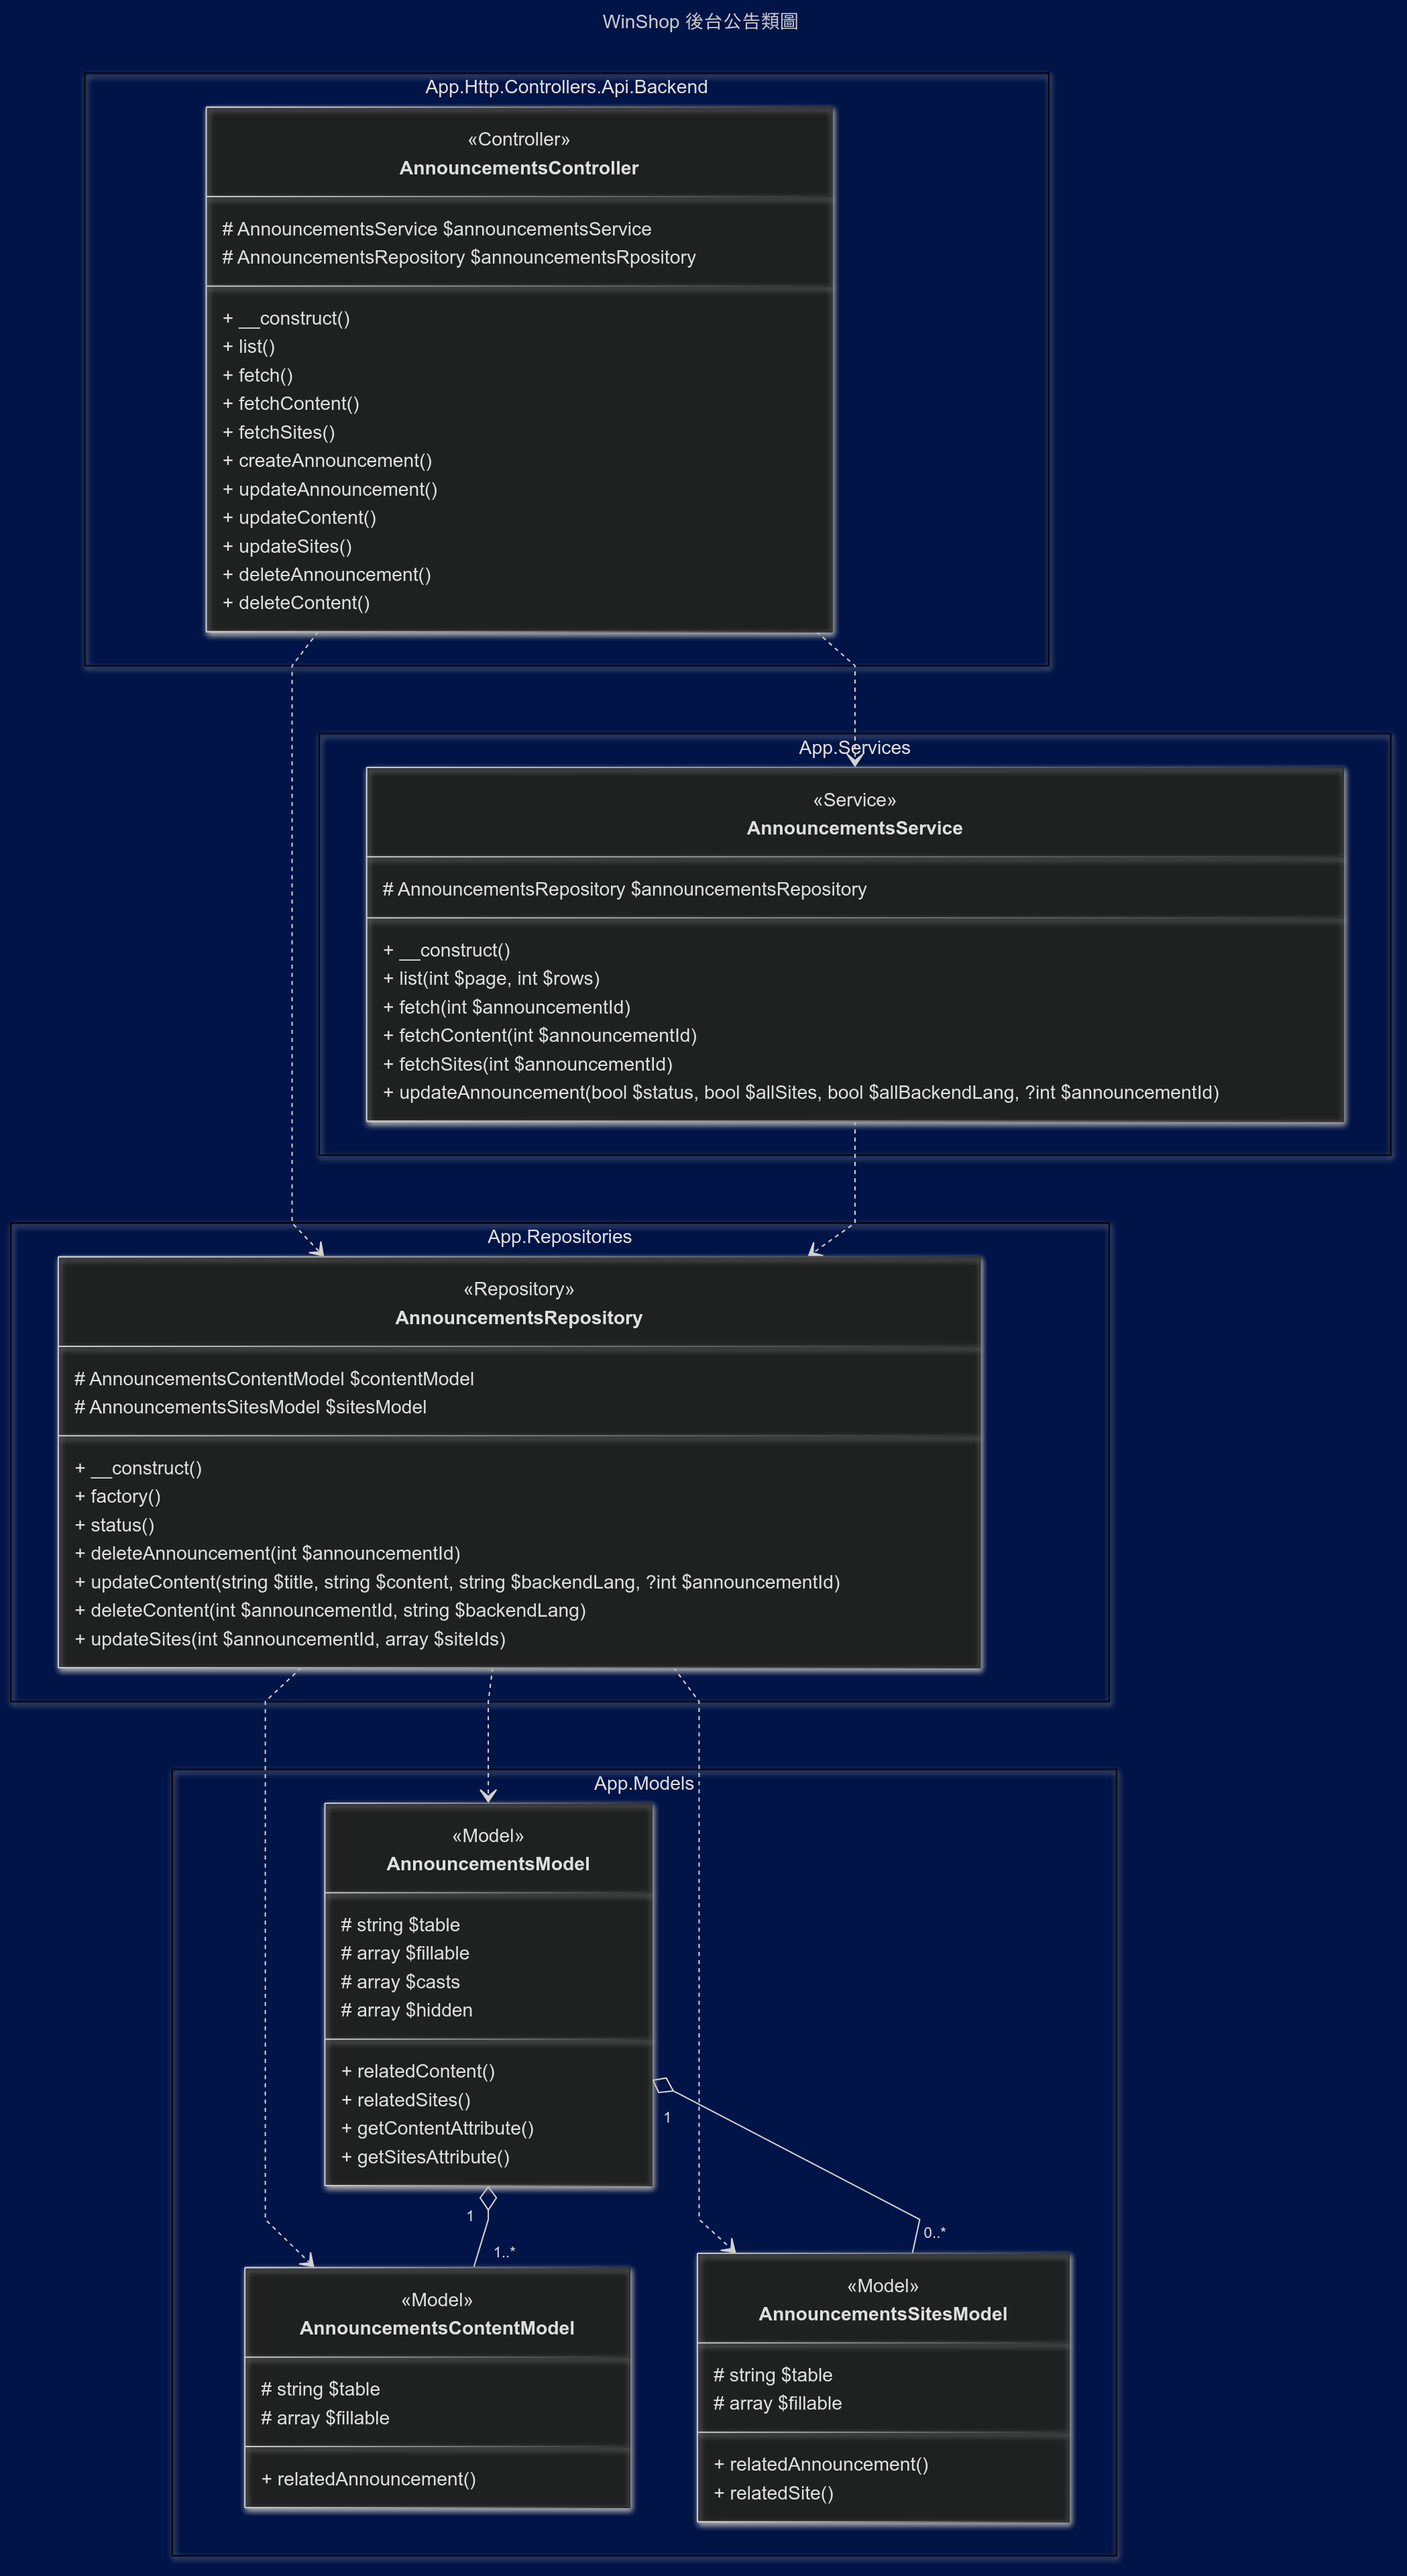
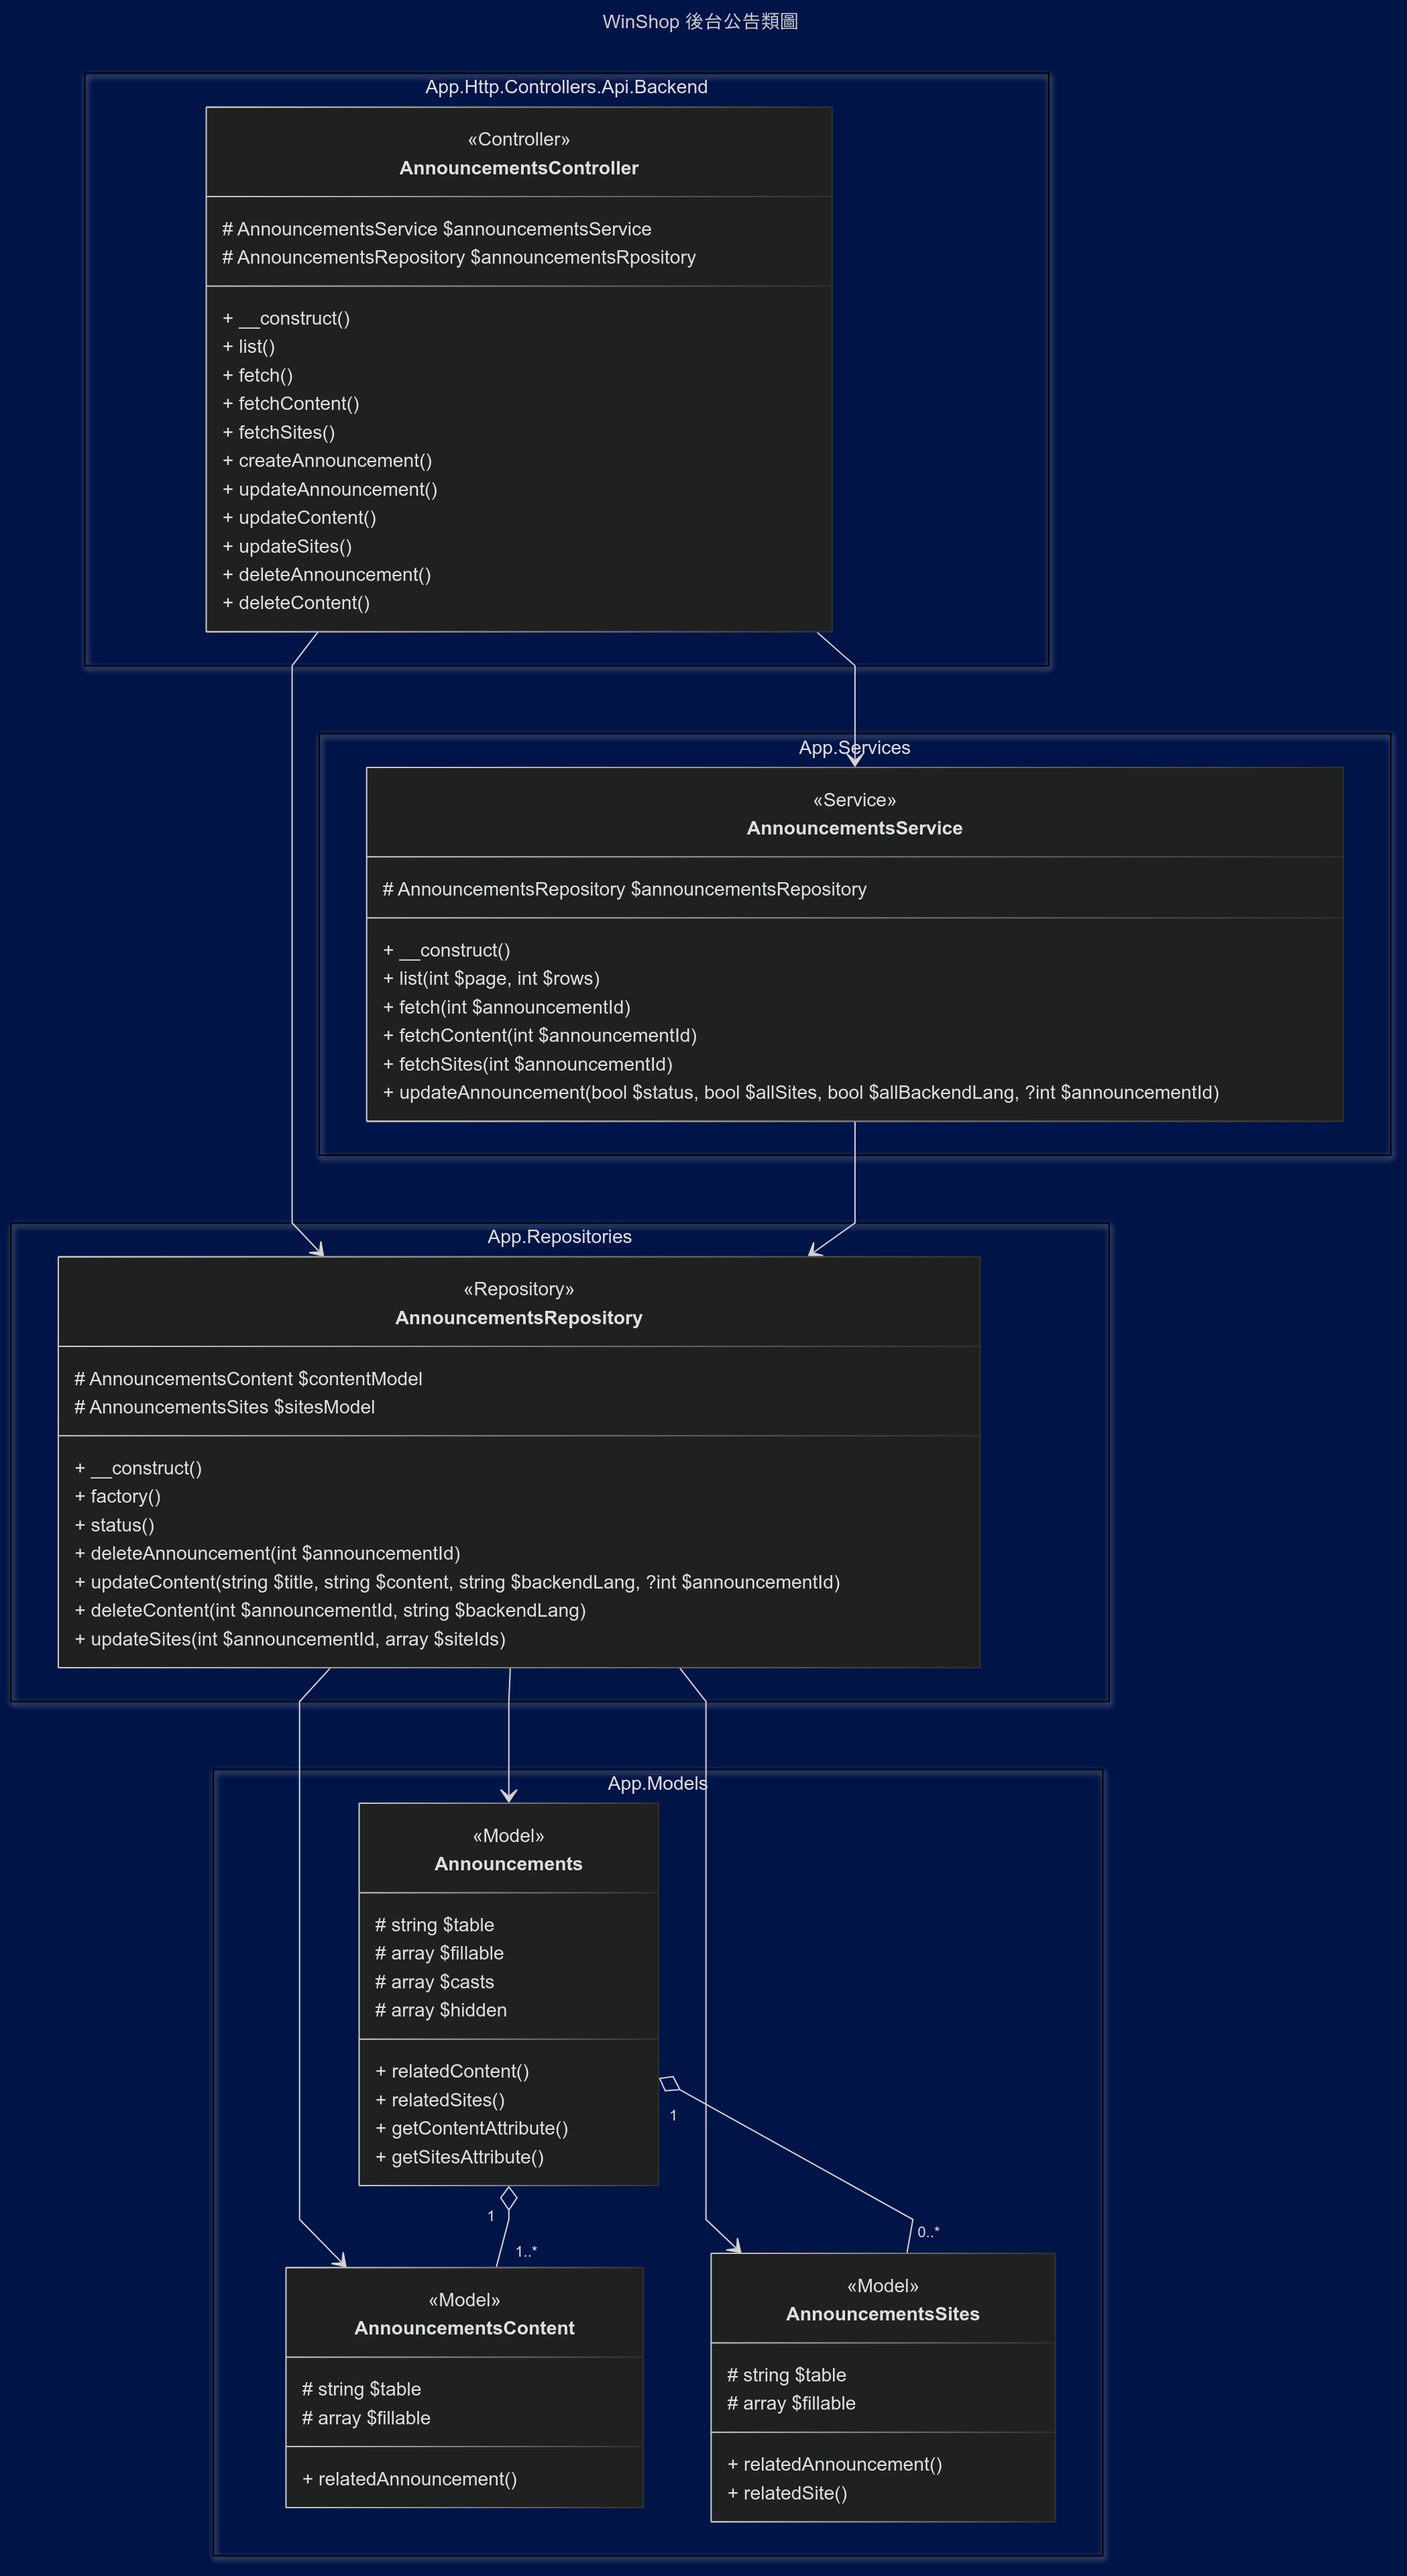
GITBOOK-6: No subject

diff --git a/SUMMARY.md b/SUMMARY.md
@@ -11,20 +11,15 @@
   * [類別參考文件](hou-duan-xiang-xi-wen-jian/lei-bie-can-kao-wen-jian/README.md)
     * [AnnouncementsController](hou-duan-xiang-xi-wen-jian/lei-bie-can-kao-wen-jian/announcementscontroller/README.md)
       * [\_\_construct()](hou-duan-xiang-xi-wen-jian/lei-bie-can-kao-wen-jian/announcementscontroller/__construct.md)
-      * [list()](hou-duan-xiang-xi-wen-jian/lei-bie-can-kao-wen-jian/announcementscontroller/list.md)
       * [fetch()](hou-duan-xiang-xi-wen-jian/lei-bie-can-kao-wen-jian/announcementscontroller/fetch.md)
-      * [fetchContent()](hou-duan-xiang-xi-wen-jian/lei-bie-can-kao-wen-jian/announcementscontroller/fetchcontent.md)
-      * [fetchSites()](hou-duan-xiang-xi-wen-jian/lei-bie-can-kao-wen-jian/announcementscontroller/fetchsites.md)
+      * [list()](hou-duan-xiang-xi-wen-jian/lei-bie-can-kao-wen-jian/announcementscontroller/list.md)
       * [createAnnouncement()](hou-duan-xiang-xi-wen-jian/lei-bie-can-kao-wen-jian/announcementscontroller/createannouncement.md)
       * [updateAnnouncement()](hou-duan-xiang-xi-wen-jian/lei-bie-can-kao-wen-jian/announcementscontroller/updateannouncement.md)
-      * [updateContent()](hou-duan-xiang-xi-wen-jian/lei-bie-can-kao-wen-jian/announcementscontroller/updatecontent.md)
-      * [updateSites()](hou-duan-xiang-xi-wen-jian/lei-bie-can-kao-wen-jian/announcementscontroller/updatesites.md)
       * [deleteAnnouncement()](hou-duan-xiang-xi-wen-jian/lei-bie-can-kao-wen-jian/announcementscontroller/deleteannouncement.md)
-      * [deleteContent()](hou-duan-xiang-xi-wen-jian/lei-bie-can-kao-wen-jian/announcementscontroller/deletecontent.md)
     * [AnnouncementsService](hou-duan-xiang-xi-wen-jian/lei-bie-can-kao-wen-jian/announcementsservice/README.md)
       * [\_\_construct()](hou-duan-xiang-xi-wen-jian/lei-bie-can-kao-wen-jian/announcementsservice/__construct.md)
-      * [list()](hou-duan-xiang-xi-wen-jian/lei-bie-can-kao-wen-jian/announcementsservice/list.md)
       * [fetch()](hou-duan-xiang-xi-wen-jian/lei-bie-can-kao-wen-jian/announcementsservice/fetch.md)
+      * [list()](hou-duan-xiang-xi-wen-jian/lei-bie-can-kao-wen-jian/announcementsservice/list.md)
       * [fetchContent()](hou-duan-xiang-xi-wen-jian/lei-bie-can-kao-wen-jian/announcementsservice/fetchcontent.md)
       * [fetchSites()](hou-duan-xiang-xi-wen-jian/lei-bie-can-kao-wen-jian/announcementsservice/fetchsites.md)
       * [updateAnnouncement()](hou-duan-xiang-xi-wen-jian/lei-bie-can-kao-wen-jian/announcementsservice/updateannouncement.md)
@@ -36,15 +31,15 @@
       * [updateContent()](hou-duan-xiang-xi-wen-jian/lei-bie-can-kao-wen-jian/announcementsrepository/updatecontent.md)
       * [deleteContent()](hou-duan-xiang-xi-wen-jian/lei-bie-can-kao-wen-jian/announcementsrepository/deletecontent.md)
       * [updateSites()](hou-duan-xiang-xi-wen-jian/lei-bie-can-kao-wen-jian/announcementsrepository/updatesites.md)
-    * [AnnouncementsModel](hou-duan-xiang-xi-wen-jian/lei-bie-can-kao-wen-jian/announcementsmodel/README.md)
-      * [relatedContent()](hou-duan-xiang-xi-wen-jian/lei-bie-can-kao-wen-jian/announcementsmodel/relatedcontent.md)
-      * [relatedSites()](hou-duan-xiang-xi-wen-jian/lei-bie-can-kao-wen-jian/announcementsmodel/relatedsites.md)
-      * [getContentAttribute()](hou-duan-xiang-xi-wen-jian/lei-bie-can-kao-wen-jian/announcementsmodel/getcontentattribute.md)
-      * [getSitesAttribute()](hou-duan-xiang-xi-wen-jian/lei-bie-can-kao-wen-jian/announcementsmodel/getsitesattribute.md)
-    * [AnnouncementsContentModel](hou-duan-xiang-xi-wen-jian/lei-bie-can-kao-wen-jian/announcementscontentmodel/README.md)
-      * [relatedAnnouncement()](hou-duan-xiang-xi-wen-jian/lei-bie-can-kao-wen-jian/announcementscontentmodel/relatedannouncement.md)
-    * [AnnouncementsSitesModel](hou-duan-xiang-xi-wen-jian/lei-bie-can-kao-wen-jian/announcementssitesmodel/README.md)
-      * [relatedAnnouncement()](hou-duan-xiang-xi-wen-jian/lei-bie-can-kao-wen-jian/announcementssitesmodel/relatedannouncement.md)
+    * [Announcements](hou-duan-xiang-xi-wen-jian/lei-bie-can-kao-wen-jian/announcements/README.md)
+      * [relatedContent()](hou-duan-xiang-xi-wen-jian/lei-bie-can-kao-wen-jian/announcements/relatedcontent.md)
+      * [relatedSites()](hou-duan-xiang-xi-wen-jian/lei-bie-can-kao-wen-jian/announcements/relatedsites.md)
+      * [getContentAttribute()](hou-duan-xiang-xi-wen-jian/lei-bie-can-kao-wen-jian/announcements/getcontentattribute.md)
+      * [getSitesAttribute()](hou-duan-xiang-xi-wen-jian/lei-bie-can-kao-wen-jian/announcements/getsitesattribute.md)
+    * [AnnouncementsContent](hou-duan-xiang-xi-wen-jian/lei-bie-can-kao-wen-jian/announcementscontent/README.md)
+      * [relatedAnnouncement()](hou-duan-xiang-xi-wen-jian/lei-bie-can-kao-wen-jian/announcementscontent/relatedannouncement.md)
+    * [AnnouncementsSites](hou-duan-xiang-xi-wen-jian/lei-bie-can-kao-wen-jian/announcementssites/README.md)
+      * [relatedAnnouncement()](hou-duan-xiang-xi-wen-jian/lei-bie-can-kao-wen-jian/announcementssites/relatedannouncement.md)
   * [後端 API](hou-duan-xiang-xi-wen-jian/hou-duan-api.md)
 * [前端詳細文件](qian-duan-xiang-xi-wen-jian/README.md)
   * [React 元件圖](qian-duan-xiang-xi-wen-jian/react-yuan-jian-tu.md)

diff --git a/hou-duan-xiang-xi-wen-jian/lei-bie-can-kao-wen-jian/announcementscontroller/README.md b/hou-duan-xiang-xi-wen-jian/lei-bie-can-kao-wen-jian/announcementscontroller/README.md
@@ -39,10 +39,10 @@ App\Repositories\AnnouncementsRepository $announcementsRepository
 * [\_\_construct()](__construct.md)
 * [list()](list.md)
 * [fetch()](fetch.md)
-* [fetchContent()](fetchcontent.md)
+* [fetchContent()](broken-reference)
 * [createAnnouncement()](createannouncement.md)
 * [updateAnnouncement()](updateannouncement.md)
-* [updateContent()](updatecontent.md)
-* [updateSites()](updatesites.md)
+* [updateContent()](broken-reference)
+* [updateSites()](broken-reference)
 * [deleteAnnouncement()](deleteannouncement.md)
-* [deleteContent()](deletecontent.md)
+* [deleteContent()](broken-reference)

diff --git a/hou-duan-xiang-xi-wen-jian/lei-bie-can-kao-wen-jian/README.md b/hou-duan-xiang-xi-wen-jian/lei-bie-can-kao-wen-jian/README.md
@@ -11,6 +11,6 @@ description: Class reference document
 * Repository
   * [AnnouncementsRepository](announcementsrepository/)
 * Model
-  * [AnnouncementsModel](announcementsmodel/)
-  * [AnnouncementsContentModel](announcementscontentmodel/)
-  * [AnnouncementsSitesModel](announcementssitesmodel/)
+  * [AnnouncementsModel](announcements/)
+  * [AnnouncementsContentModel](announcementscontent/)
+  * [AnnouncementsSitesModel](announcementssites/)

diff --git a/hou-duan-xiang-xi-wen-jian/lei-bie-can-kao-wen-jian/announcementssites/README.md b/hou-duan-xiang-xi-wen-jian/lei-bie-can-kao-wen-jian/announcementssites/README.md
@@ -2,7 +2,7 @@
 description: 後台公告區塊關聯站台模組
 ---
 
-# AnnouncementsSitesModel
+# AnnouncementsSites
 
 ### Namespace
 
@@ -42,4 +42,4 @@ protected array $fillable = [
 
 ### Methods
 
-* [relatedAnnouncement()](../announcementscontentmodel/relatedannouncement.md)
+* [relatedAnnouncement()](../announcementscontent/relatedannouncement.md)

diff --git a/hou-duan-xiang-xi-wen-jian/lei-bie-can-kao-wen-jian/announcementscontroller/fetch.md b/hou-duan-xiang-xi-wen-jian/lei-bie-can-kao-wen-jian/announcementscontroller/fetch.md
@@ -1,11 +1,11 @@
 ---
-description: 列出公告區塊資料 API
+description: 後台首頁顯示用列出公告區塊資料 API
 ---
 
 # fetch()
 
 ```php
-public fetch(Request $request): Response
+後台首頁public fetch(Request $request): Response
 ```
 
 #### Parameters

diff --git a/hou-duan-xiang-xi-wen-jian/lei-bie-can-kao-wen-jian/announcementscontroller/list.md b/hou-duan-xiang-xi-wen-jian/lei-bie-can-kao-wen-jian/announcementscontroller/list.md
@@ -1,5 +1,5 @@
 ---
-description: 列出公告區塊資料 API
+description: 後台管理用列出公告區塊資料 API
 ---
 
 # list()
